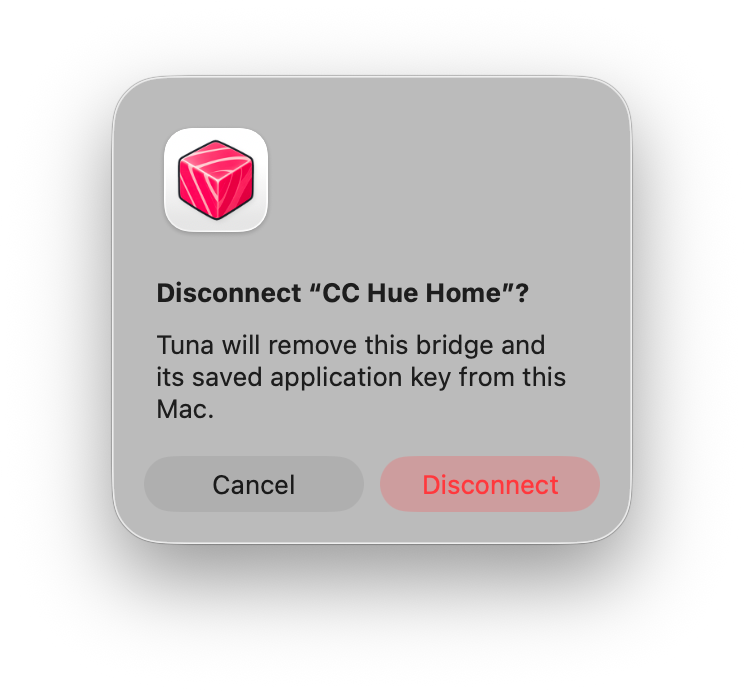
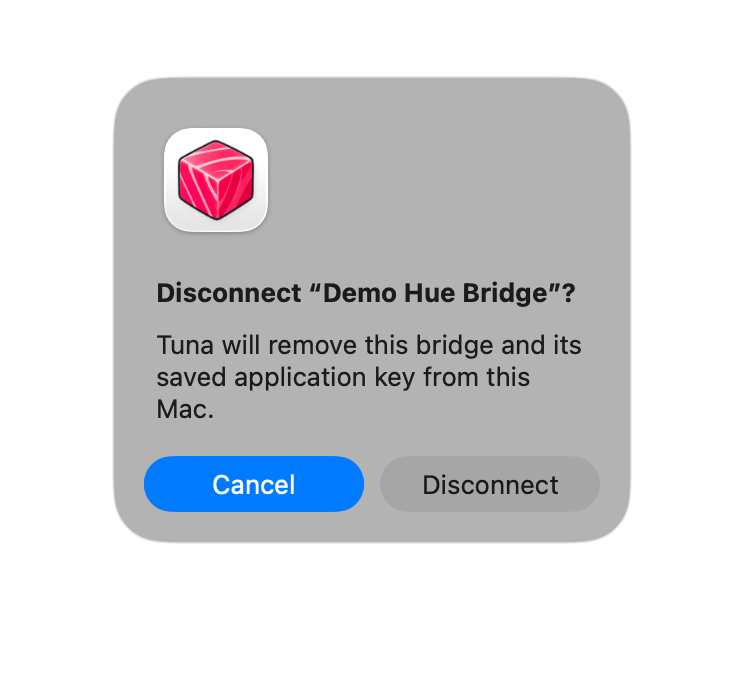
Make Cancel the safe default for Hue disconnect

diff --git a/packages/plugin/Sources/HueExtension.swift b/packages/plugin/Sources/HueExtension.swift
@@ -558,8 +558,18 @@ public final class HueCatalog: Catalog, CatalogDiagnosticsReporting {
     confirm.alertStyle = .warning
     confirm.messageText = "Disconnect “\(label(for: record, among: records))”?"
     confirm.informativeText = "Tuna will remove this bridge and its saved application key from this Mac."
-    confirm.addButton(withTitle: "Cancel")
-    confirm.addButton(withTitle: "Disconnect").hasDestructiveAction = true
+    let cancel = confirm.addButton(withTitle: "Cancel")
+    confirm.addButton(withTitle: "Disconnect")
+    confirm.layout()
+    let window = confirm.window
+    window.defaultButtonCell = cancel.cell as? NSButtonCell
+    // Setting a default button replaces Cancel's Escape shortcut with Return.
+    let escape = NSEvent.addLocalMonitorForEvents(matching: .keyDown) { event in
+      guard event.window === window, event.charactersIgnoringModifiers == "\u{1b}" else { return event }
+      cancel.performClick(nil)
+      return nil
+    }
+    defer { if let escape { NSEvent.removeMonitor(escape) } }
     guard confirm.runModal() == .alertSecondButtonReturn else { return false }
     try HueConnections.disconnect(record.id)
     return true
